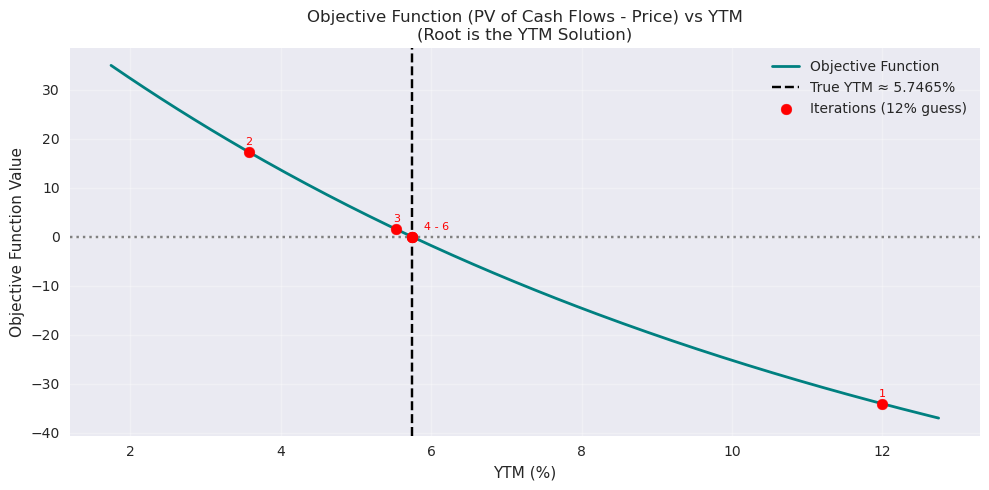
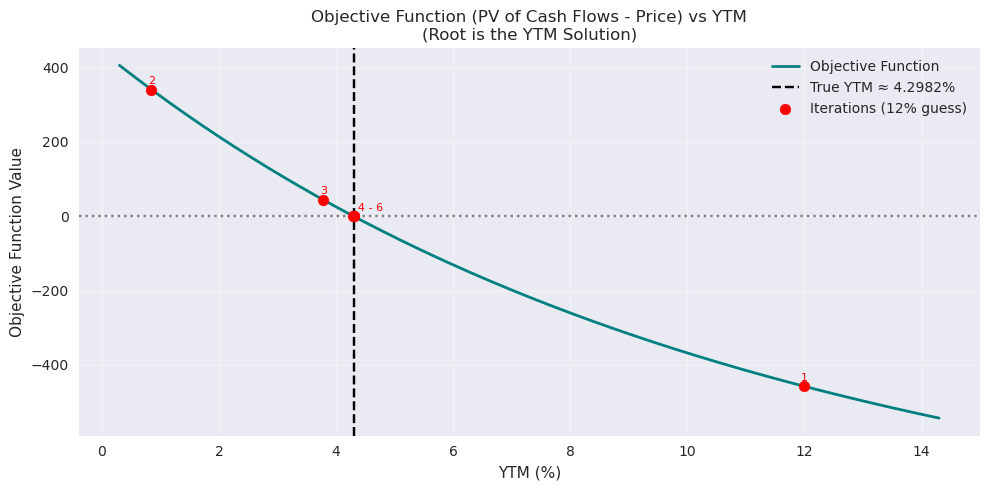
jun complete.

diff --git a/_posts/2025-06-30-island-hopping.md b/_posts/2025-06-30-island-hopping.md
@@ -14,9 +14,9 @@ image7: /images/posts/jun25/nr2.png
 image8: /images/posts/jun25/guadalcanal.jpg
 ---
 
-Tarawa.  They told us we'd land right on the beach...  Said the tide would carry the boats over the reef... But the water stopped too soon-just short of safety-and left us exposed.  The landing craft stopped abruptly, shoving us uncontrollably into each other.  A memory of packing into the NY subway at Chambers every morning before the war slid into focus for a moment before the heat set in.  When traveling toward the beach at 10 knots the breeze had lulled us into a pensive state where all you could hear was the LCVP's drone and the rumble of distant shelling.  Now there was just heat in the still air.  Heat and noise.  
+Tarawa.  They told us we'd land right on the beach...  Said the tide would carry the boats over the reef... But the water stopped too soon - just short of safety - and left us exposed.  The landing craft stopped abruptly, shoving us uncontrollably into each other.  A memory of packing into the NY subway at Chambers every morning before the war slid into focus for a moment before the heat set in.  When traveling toward the beach at 10 knots the breeze had lulled us into a pensive state where all you could hear was the LCVP's drone and the rumble of distant shelling.  Now there was just heat in the still air.  Heat and noise.  
 
-The ramp dropped, and the world exploded into sound: machine guns barking from the bunkers, mortar shells whistling overhead, the sharp snap of rounds cracking through  the air like breaking sticks.  Men started yelling - some from pain, some just to be heard over the chaos.  The sergeant shouted "Over the side!  Move!"
+The ramp dropped, and the world exploded into sound: machine guns barking from the bunkers, mortar shells whistling overhead, the sharp snap of rounds cracking through the air like breaking sticks.  Men started yelling - some from pain, some just to be heard over the chaos.  The sergeant shouted "Over the side!  Move!"
 
 It's moments like this when your body becomes a sack of potatoes, weighed down with equipment and ammunition.  I hit the water hard, boots sinking instantly into the reef.  It was waist-deep, then chest-deep.  My rifle was slung across my back, useless now.  My pack dragged behind me like a sandbag tied to my spine.  I was trying to keep my helmet steady, but the saltwater was in my eyes, my mouth and ears.  To this day that saltwater is in my throat.  I couldn't hear anything clearly - just noises through saltwater ears and a pounding heartbeat.
 
@@ -28,29 +28,143 @@ The closer we got, the louder everything became.  The sand was packed hard and s
 
 ### Postcards from the West
 
-To say that defeating Imperial Japan would require creative thinking is at best an understatement.  It is about as useful as stating there are a lot of islands in the Pacific.  Islands with names that to this day most people have never hear of were occupied with Japanese forces dug into defensive positions just waiting for the advancing Americans.  General MacArthur, commanding U.S. Army forces, and Admiral Nimitz, heading up the U.S. Navy, both knew they had neither the time nor the resources to take every Island.  They also knew Japan was unreachable without a secure supply chain and airfields close enough to reach it.  The plan, then, was for the Army and Navy to carry out parallel campaigns to seize key islands and bypass non-critical ones, forging a path toward Tokyo.  The plan, though simple in concept, was never simple in execution.  On the ground, each island took on a life of its own from the perspectives of the marines and soldiers who fought there.  Some landings were hot, meaning the Japanese actively defended the beaches the Americans landed on.  And some were not, concealing deadly battles that would ensue as the Americans tredged inland.  The island hopping strategy, hellish as it was, proved successful in the end.  That is were the metaphore will take us today.  
+To say that defeating Imperial Japan would require creative thinking is at best an understatement.  It is about as useful as stating there are a lot of islands in the Pacific.  Islands with names that to this day most people have never heard of were occupied with Japanese forces dug into defensive positions just waiting for the advancing Americans.  General MacArthur, commanding U.S. Army forces, and Admiral Nimitz, heading up the U.S. Navy, both knew they had neither the time nor the resources to take every Island.  They also knew Japan was unreachable without a secure supply chain and airfields close enough to reach it.  The plan, then, was for the Army and Navy to carry out parallel campaigns to seize key islands and bypass non-critical ones, forging a path toward Tokyo.  The plan, though simple in concept, was never simple in execution.  On the ground, each island took on a life of its own from the perspectives of the marines and soldiers who fought there.  Some landings were hot, meaning the Japanese actively defended the beaches the Americans landed on.  And some were not, concealing deadly battles that would ensue as the Americans tredged inland.  Sometimes an island battle lasted a couple weeks, while others consumed months.  The island hopping strategy, hellish as it was, proved successful in the end.  And that is were the metaphore will take us today.  
 
-If my June campaign is successful, then we'll have island hopped our way though a few more topics in the vast world of fixed income with the object of gaining better appreciation for the complexity of this field.  And in a more direct application of the metaphore, we'll explore the elegant and extremely useful **Newton-Raphson** algorithm for calculating bond yields.  
+If my June campaign is successful, then we'll have island hopped our way though a few more topics in the vast world of fixed income with the objective of gaining better appreciation for the complexity of this field.  And in a more direct application of the metaphore, we'll explore the elegant and extremely useful **Newton-Raphson** algorithm for calculating bond yields.  
 
+### Guadalcanal
+**or "Valuing a Bond Using Spot Rates"**
+
+Recall from last month that we discussed the concept of spot rates and how they can be used to value a bond.  This month, we'll take a closer look at how to apply spot rates to calculate the present value of a bond's cash flows.  The process is straightforward: we discount each cash flow by its corresponding spot rate and sum them up to get the bond's present value.
+
+Using our universal present value formula, we can express the present value of a bond as:
+```math
+PV = \sum_{t=0.5}^{n} \frac{\frac{C_t}{2}}{(1 + \frac{R_t}{2})^{2t}} + \frac{F}{(1 + \frac{R_n}{2})^{2n}} \tag{1}
+```
+Where $$t$$ is the time in years until each cash flow, $$C_t$$ is the coupon payment at time $$t$$, $$R_t$$ is the spot rate for that time period, and $$F$$ is the face value of the bond.  Since we are using semi-annual coupons, we divide the coupon rate by 2 and multiply the time by 2 to account for the semi-annual payments.
+
+So, if we have a Treasury bond with a 5% coupon rate maturing in 10 years, and a bootstrapped spot rate curve on 1 July 2025, then we can apply **(1)** to determine a present value of $105.66 per $100 face value.  The below chart illustrates the effect of discounting on each of the cash flows.
 
 ![PV with Spot Rates]({{ page.image1 | relative_url }})
 
-```text
-Coupon Rate: 4.5%
-Par Value: $1,000.00
-Clean Price: 102.25% = $1,022.50
-Days since last coupon: 145
-Days in coupon period: 182
+There's a few things we can take away from this example.  Notice the bars representing coupon payments are the same height, but the PV of those bars decreases over time.  The rate of decrease is a function both of time and the spot rate such that by the time we reach the 10-year mark, nearly all of the value of the cash flow has been erroded away.  The chart is plotted on a logarithmic scale so we can better see this effect on the cash flows.  They would otherwise get dwarfed by the face value cash flow.  In summing the PVs we arrive at the bond price at the far left, $105.66.  Since this value is above $100 par, we can say the bond is trading at a premium.  This is because the coupon rate of 5% is above the average level of spot rates in the term structure, plotted as the red curve against the right axis.  If the bond PV was below $100, we would say it is trading at a discount.
 
-Accrued Interest: $17.93
-Dirty Price: $1,022.50 + $17.93 = $1,040.43
-```
+### Tarawa
+**or "Bond Price Conventions"**
 
-```text
-Newton-Raphson Method for YTM Calculation (Multiple Initial Guesses)
-Bond: 4.75% coupon, 10 years to maturity, trading at $92.5
-----------------------------------------------------------------------
-Initial guess: 1.00% | Final YTM: 5.7465% | Iterations: 5
-Initial guess: 5.00% | Final YTM: 5.7465% | Iterations: 4
-Initial guess: 12.00% | Final YTM: 5.7465% | Iterations: 6
+So, we know our bond is valued at $105.66.  How would that be quoted in the market, though?  When quoting stocks, ETFs and funds, we typically see them quoted directly in dollars and cents.  Not so with bonds, however.  First, bonds are typically quoted in terms of a percentage of par value.  $105.66 would be quoted, then, as 105.66%.  Second, the decimal component of the quote can be expressed as either a decimal or a fraction, but on different scales than we're used to.  Treasury bonds, and bonds issued by government agencies, are quoted in 32nds of a point.  So, 105.66% would be expressed as 105 21/32, or 105-21 (=105 + 0.66 * 32).  Bonds issued by corporations and municipalities are quoted in 1/8ths of a point.  If our bond was issued by Ford Motor Company, for instance, it would be quoted as 105 5/8 (=105 + 0.66 * 8).  
+
+With this fun fact, we now know not to either despair over a miscalibrated spot rate curve or to squeal with glee over a potential abritrage opportunity when we see our bond quoted at 105-21.  It's simply a confirmation that our valuation is inline with the market.  
+
+### Saipan
+**or "Determining the Actual Price You Pay"**
+
+While we have been anchoring on $100 face value in our example, bonds more commonly have a face value of $1,000.  This means our Treasury bond quoted at 105-21 would carry a price of $1,056.56 $$(=\$1,000 \times \frac{105 + \frac{21}{32}}{100})$$.  As with so many things, though, that is not the full price you would pay, and I'm not talking about mark ups or fees.  
+
+Let me illustrate this point from the perspective of someone who holds this bond and wants to sell it.  Since the bond makes regular coupon payments, if that person sells the bond anytime before the next coupon payment, then they are forfeiting that payment.  As a holder of the bond up to that moment, wouldn't you want to be compensated for the time you've held it since the previous payment?  Short answer: "Oui!"  Naturally, you would expect to receive the **accrued interest** that has accumulated since the last coupon date.  Otherwise, bond holders would have a perverse incentive not to sell until the next coupon, and it would just create a weird market environment.  
+
+As a buyer of the bond, then, part of the purchase will include payment of accrued interest.  We call the quoted price of $1,056.56 the **clean price**.  It is the price of the bond based on it's present value, which excludes accrued interest.  Adding that component gives us the **dirty price**, or the price that we'll actually pay to buy that bond.  Working out this example, lets say it is the 24th of May, 2025, and the next coupon date of this bond we're going to buy is July 1st.  Since it is a semi-annual bond, we know that the previous coupon payment was made on January 1st.  That means we are 143 days into the 181-day coupon period.  As a fraction of the period, that is 0.7601 $$(=\frac{143}{181})$$.  The July 1 coupon payment will be $25 $$(=\frac{5\% \times $1,000}{2})$$, so the accrued interest is $19 $$(=\$25 \times 0.7601)$$.  Soiling our clean price of $1,056.56 with that filthy $19 of accrued interest gives us our *dirty price* of $1,075.56 $$(=\$1,056.56 + \$19)$$.  This is the price we would pay to buy the bond on May 24th, 2025, per $1,000 notional face value.
+
+### Guam
+**or "Yields of our Bonds"**
+
+"What's the yield on that bond!" shouts the trader from across the floor.  "What yield?" is the reply.  "The bond yield, a-hole!" is the thundering response.  "Oh, that yield!" is the exasperated reply.  OK, that probably never happens.  But I mention it to illustrate that there are different meaures of yield, and their differences are nuanced.  Conceptually they say something similar about how much an investor can expect to earn in percentage terms from a bond.  But let's go through a few of the main ones:
+
+1. **Nominal Yield**: This is the simplest measure, calculated as the annual coupon payment divided by the face value of the bond. For our example bond with a 5% coupon rate and $1,000 face value, the nominal yield is 5% $$(=\frac{50}{1000})$$.
+2. **Current Yield**: This measure takes into account the bond's current market price. It is calculated as the annual coupon payment divided by the current market price of the bond. For our bond priced at $1,056.56, the current yield is approximately 4.73% $$(=\frac{50}{1056.56})$$.  Notice that we compute current yield using the clean price, not including that dirty-nasty accrued interest.  Also note that the current yield is lower than nominal.  This fact is true for any premium bond.  You've probably heard it a million times: "bond prices and yields move in opposite directions."  Well, this is the case in point.
+3. **Yield to Maturity (YTM)**: This is a more comprehensive measure that considers the bond's current market price, coupon payments, and the time remaining until maturity. It represents the total return an investor can expect if the bond is held until maturity. Calculating YTM can be complex, as it involves solving for the interest rate that equates the present value of the bond's cash flows to its current market price.  We'll tackle this when we hit **Okinawa**.  A back-of-the-envelope approximation of YTM can be made by amortizing the difference between the current price and par value over the remaining life of the bond:
+```math
+YTM \approx \frac{C + \frac{(F - P)}{n}}{\frac{{F + P}}{2}} \tag{2}
 ```
+Where $$C$$ is the annual coupon payment, $$F$$ is the face value, $$P$$ is the current price, and $$n$$ is the number of years to maturity.  For our example bond, this gives us a YTM of approximately 4.31% $$(=\frac{50 + \frac{(1000 - 1056.56)}{10}}{\frac{(1000 + 1056.56)}{2}})$$.  This is a good approximation, but it does not account for the time value of money in the same way as the full YTM calculation.  Notice that YTM is lower than both nominal and current yield since the bond is trading at a premium.
+4. **Yield to Call (YTC)**: This measure is relevant for callable bonds, which can be redeemed by the issuer before maturity. YTC is similar to YTM but assumes the bond is called at the earliest possible date. It is calculated using the call price and the time until the call date.  Solving for YTC involves numerical methods and is a particular joy to all us financial engineers out there.  Out of scope for today, but we'll set our sights on it before too long...  If our bond was hypothetically callable at par in 5 years, that would mean the issuer, i.e., Uncle Sam for this Treasury, could call the bond away from us at a price of par.  Using **(2)**, we can approximate YTC as 3.76% $$(=\frac{50 + \frac{(1000 - 1056.56)}{5}}{\frac{(1000 + 1056.56)}{2}})$$.  Notice that YTC is the lowest of the yields we calculated so far.
+5. **Yield to Worst (YTW)**: This measure calculates the lowest yield an investor can receive.  Technically, its is the lower of YTM and YTC.  It is useful for assessing the worst-case scenario for a bondholder.  Besides a credit event, e.g., a default, a bad outcome for a bond investor is to have their bond called early and be stuck with reinvesting the proceeds at less favorable rates.  This is commonly referred to as reinvestment risk.  YTW is a way to quantify that risk.  Sticking with our example, YTW would be 3.76%.
+
+If the main takeaway from this island is that there are different measures of yield, each serving a different purpose, then the secondary takeaway is to understand the relationship between the various yields depending on whether the bond is trading at a preium or discount.  The below chart plots nominal, current YTM, and YTC for a 5.5% semi-annual bond with 8 years until maturity.  
+
+![Price and Yield Dynamics]({{ page.image4 | relative_url }})
+
+Nominal yield is always at the intersection of the curves at par ($100).  The blue line represents current yield.  When the bond is trading at discount, it will be above nominal, but less than YTM - the orange curve.  When trading at a premium, current yield is below nominal, but higher than YTM.  For callable bonds, YTC will always be at the extremes. It will be the highest yield measure for discount bonds, since the chances of the issuer calling the bond at a price above the discounted one are low.  And, it will be the lowest yield measure when the bond is priced above the call price, reflecting the likelihood of the issuer exercising the call feature.   
+
+### Peleliu
+**or "Prices Move Inversely to Yields"**
+There, that's a million and one times.  The point is that important, though.  Let's look at three bonds with different coupon rates all maturing in 10 years:
+
+![Price and Yield Dynamics 1]({{ page.image2 | relative_url }})
+
+The main point to take away from this image is that the price curves as a function of yield are downward sloping.  It's a golden rule: increasing yields leads to decreasing prices.  A million and two...  Also notable is how the three curves are similarly convex.  The similarity in shape is mostly due to the shared maturity of 10 years, and the absence of other factors that impact price and are out of scope for this post.  About the convex shape, though, we can infer that the price of a bond will change more for a given change in yield when the yield is low than when it is high.  We'll also set an azimuthon this topic in more detail in the future.  But before we hop to the next rock in the Pacific, one more chart:
+
+![Price and Yield Dynamics 2]({{ page.image3 | relative_url }})
+
+The only thing I want to call out here is the impact maturity has on the price-yield relationship.  The longer the maturity, the more pronounced the convexity of the price curve.  This is because longer-term bonds are more sensitive to changes in interest rates, leading to larger price fluctuations for a given change in yield: a key concept in fixed income investing and risk management.
+
+### Iwo Jima
+**or "Bond Price Evolution"**
+
+Unlike the actual experience on Iwo Jima, this one will be short and sweet.  I saw a similar chart in a text book once, and it has stayed with me ever since:
+
+![Bond Price Evolution]({{ page.image5 | relative_url }})
+
+From this chart we can see, given a number of bonds with different coupon rates, the same maturity and yield, how the price evolves over time until maturity.  The key takeaway is that the price approaches par as the bond nears maturity.  It's intuitive, since the bond will eventually pay out its face value plus a final coupon payment at maturity.  Absent a credit event, the price will converge to par regardless of the yield.  As a buy-and-hold investor, then, credit risk becomes your biggest concern when holding a non-callable bond.  While yield is an important factor when making the initial investment decision, the price is otherwise fairly deterministic.  Active bond traders view the world differently, though, since expectations of yield and market conditions, among other things, will inform their holding periods.
+
+### Okinawa
+**or "Calculating Yields with Newton-Raphson"**
+
+Whew, thanks for sticking with me this far.  It's been quite a trip.  I have to warn you, though, some of this section might elicit painful memories of college calculus.  Let's jump in it...
+
+For starters, let's assume we have our trusty semi-annual 5% Treasury bond with 10 years to maturity, quoted at 105-21.  We want to calculate YTM rather than just approximate it (perhaps we're out of envelopes..).  From last month, we know the equation for PV using yield is:
+```math
+PV = \sum_{t=0.5}^{n} \frac{\frac{C_t}{2}}{(1 + \frac{YTM}{2})^{2t}} + \frac{F}{(1 + \frac{YTM}{2})^{2n}} \tag{3}
+```
+YTM is the only unknown, but solving for it is not as simple as rearranging the terms.  Instead, we'll use a numerical method called the **Newton-Raphson** method.  This method is an iterative approach that starts with an initial guess for YTM and refines it until we converge on a solution.  The formula for the Newton-Raphson iteration is:
+```math
+YTM_{n+1} = YTM_n - \frac{f(YTM_n)}{f'(YTM_n)} \tag{4}
+```
+Where $$f(YTM)$$ is the objective function representing the difference between the calculated PV and the market price, and $$f'(YTM)$$ is its derivative with respect to YTM.  In our case, we can express this as:
+```math
+f(YTM) = P_{market} - PV_{YTM} \\
+f'(YTM) = -\sum_{t=0.5}^{n} \frac{t \cdot C_t}{2(1 + \frac{YTM}{2})^{2t+1}} - \frac{n \cdot F}{2(1 + \frac{YTM}{2})^{2n+1}}
+```
+Where $$P_{market}$$ is the market price of the bond, and $$PV_{YTM}$$ is the present value calculated using the current guess for YTM.
+
+After each iteration with **(4)**, we have a new estimate for YTM.  The objective function $$f(YTM)$$ and its derivative will determine the size of leap we take toward the new estimate.  If our updated estimate is still far away from the actual YTM, then the leap will be large.  As we converge to the true value the leaps will get smaller and smaller.  We stop iterating once the absolute value of the difference in YTM estimates $$(YTM_{n+1} - YTM_n)$$ is less than a predetermined tolerance level, e.g., 1e-6.  This means we are close enough to the true YTM that further iterations would not yield a materially different result.  Applying the algorithm looks a little like this:
+
+```python
+ytm = initial_guess  # Set up parameters..
+ytm_old = 0
+## Iterate until convergence
+for i in range(max_iterations):
+    if abs(ytm - ytm_old) < tolerance: # tolerance is a very small number, e.g., 1e-6
+        return ytm
+    # Set the prior YTM estimate to the current one.
+    ytm_old = ytm
+    # calculate f(YTM) and f`(YTM) 
+    ## Use equation (3) to calculate the bond price using the current YTM guess.
+    objective_func = bond_price - pv_bond_ytm
+    (coupon_rate, ytm, n_maturity, face_value)
+    # Calculate the derivative of the bond price with respect to YTM.
+    ## Use equation (4) to calculate the derivative of the bond price.
+    objective_prime = pv_bond_prime(coupon_rate, ytm, n_maturity, face_value)
+    # Update the YTM estimate using the Newton-Raphson formula. 
+    ytm = ytm_old - objective_func / objective_prime
+```
+The below chart shows the Newton-Raphson convergence for our bond using three different initial guesses:
+
+![Newton-Raphson Convergence]({{ page.image6 | relative_url }})
+
+As you can see, convergence happens quickly - within six iterations for the worst initial guess.  They all converge to the same YTM of ~4.2982%.  Recall our back-of-the-envelope approximation was 4.31% - pretty good for when precision is less important.  For a another view showing the convergence given the initial guess that was furthest from the true value, we can see how the step sizes decrease as we the objective function approaches zero:
+
+![Newton-Raphson Convergence 2]({{ page.image7 | relative_url }})
+
+The Newton-Raphson method is a powerful tool for calculating yields, especially when dealing with complex bonds or when precision is paramount.  It allows us to find the yield that equates the present value of a bond's cash flows to its market price, providing a more accurate measure of the bond's return.  It's also useful in an array of other contexts ranging from calculating implied volatility for options pricing to solving for the internal rate of return (IRR) in capital budgeting.  Truly and elegant algorithm that punches well above its weight.
+
+### Japan
+**or "Reaching our Objective"**
+
+Our island hopping campaign through the fixed income has taken us from spot rates to Newton-Raphson, with some strategic stops along the way.  A part of me wants to say that *Liberation Day* was my Pearl Harbor moment for exploring this topic, but that would just be silly..  Instead, think of it as *One Big Beautiful Bond Introduction* that has set us up for future campaigns in portfolio and risk managment.  Yup.  And on that note, as I write this, the **Big Beautiful Bill** is about the roll through Congress and has the potential to further stretch U.S. debt burden beyond sustainable levels - by as much as $5 trillion over the next decade according to some estimates.  Rather than *beautiful*, we may look back on this moment and think of it as the **One Big Boned Bill**.  We'll just have to stay awake and watch what happens.  'Til next item..
+
+Action front!  Move out and draw fire!!
+
+!![Guadalcanal]({{ page.image8 | relative_url }})
+
+**Note:** This post is not investment advice.  Any opinions stated are my own and do not reflect those of my employer.  This post is meant to be educational and entertaining.  If you find it useful, then please let me know.  If you think it sucks, then please let me know that, too!
